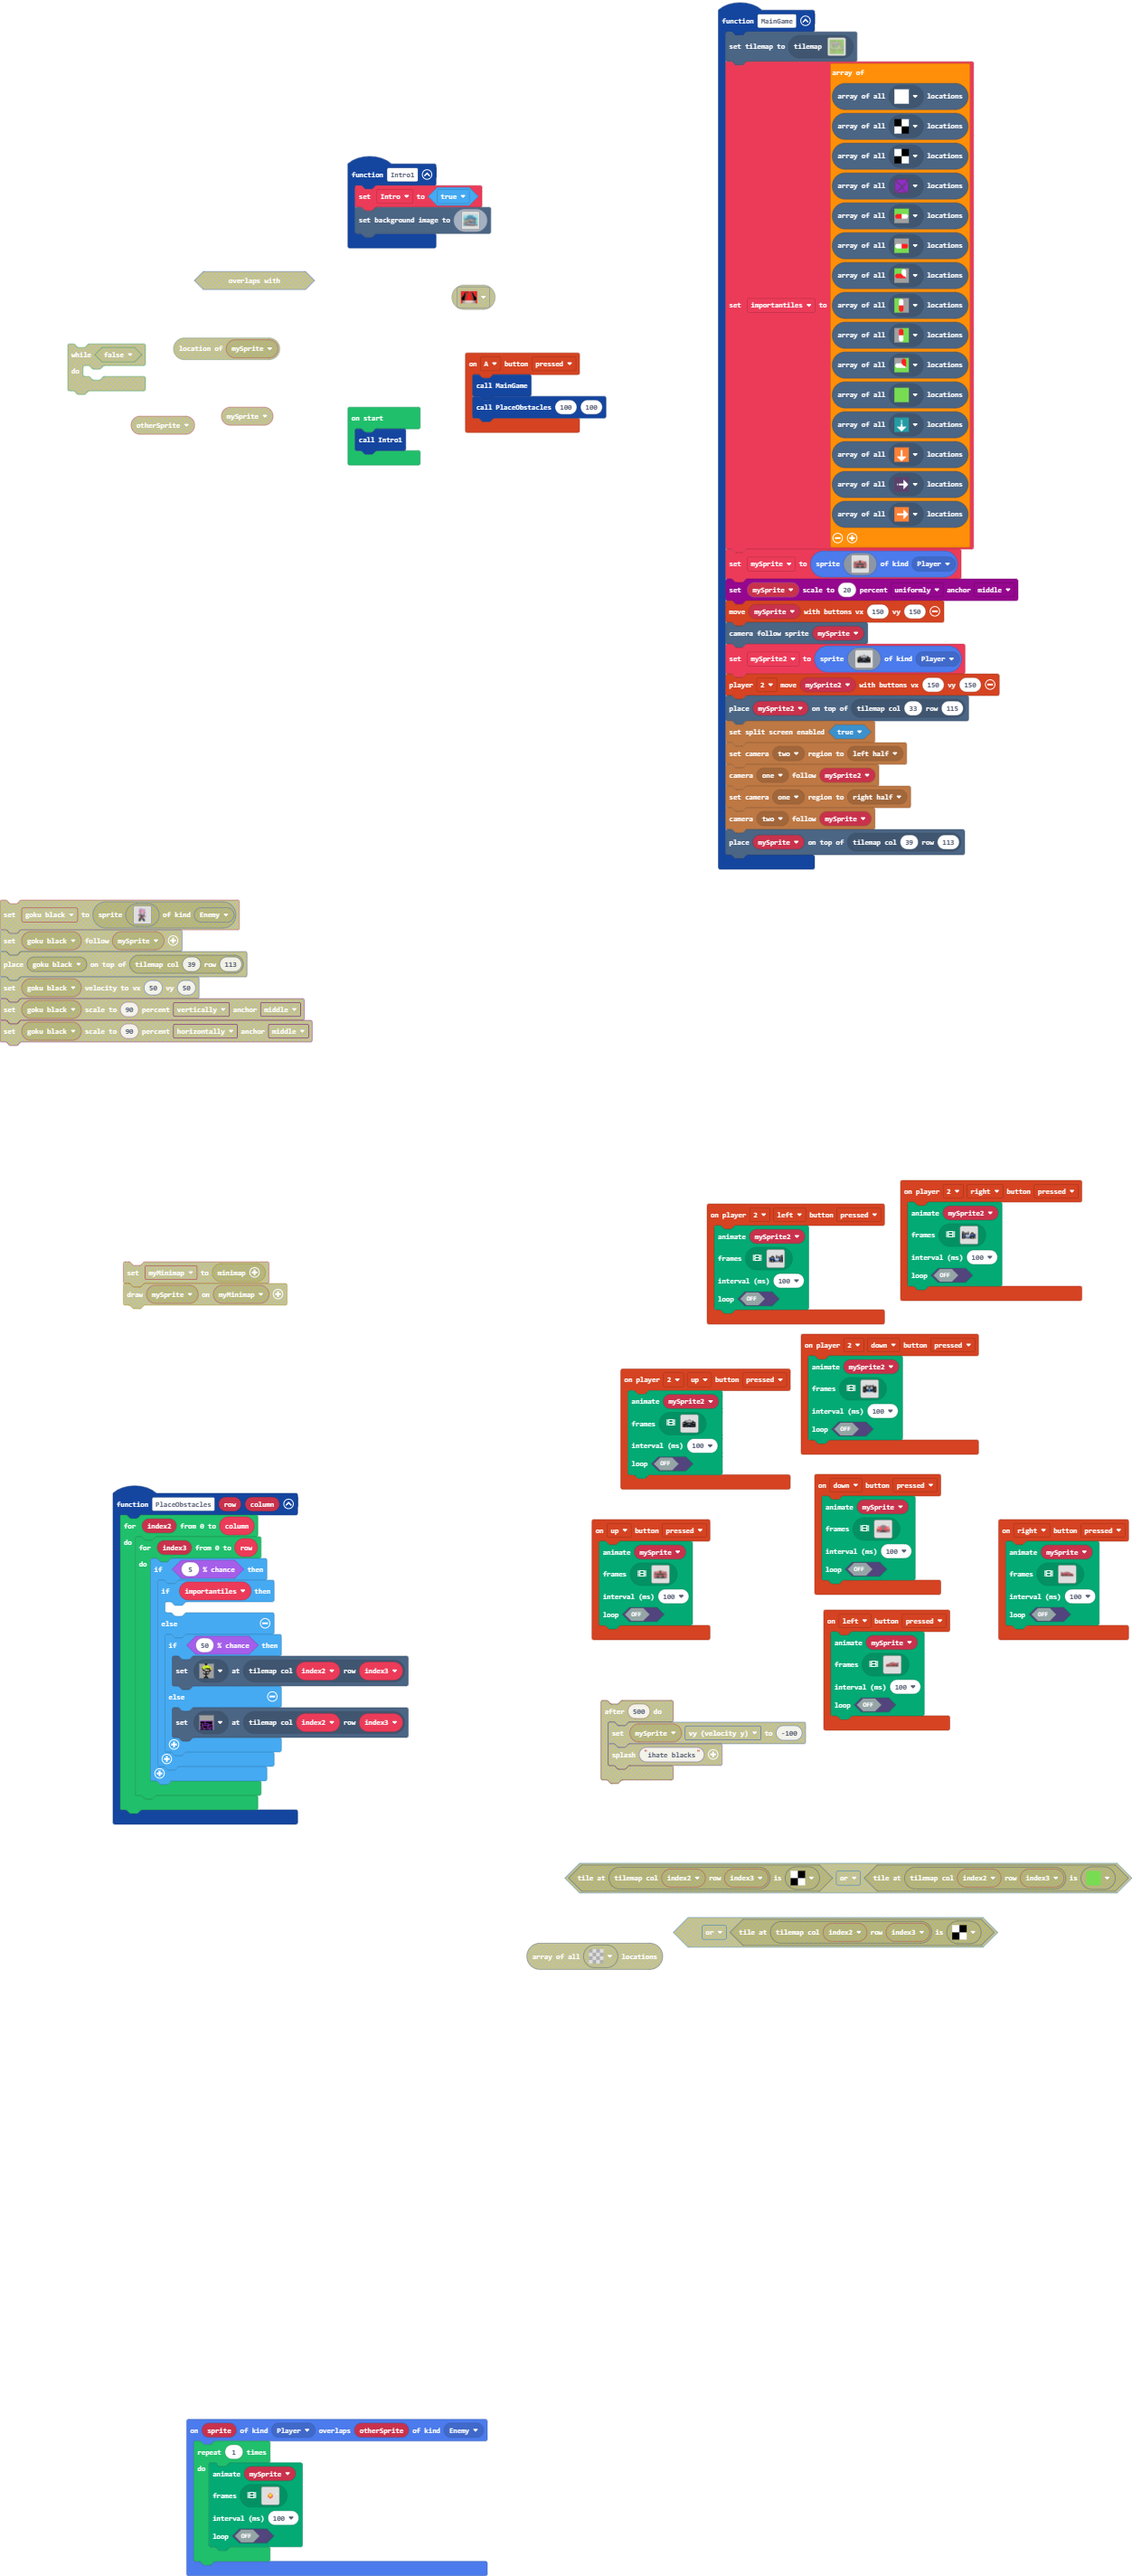
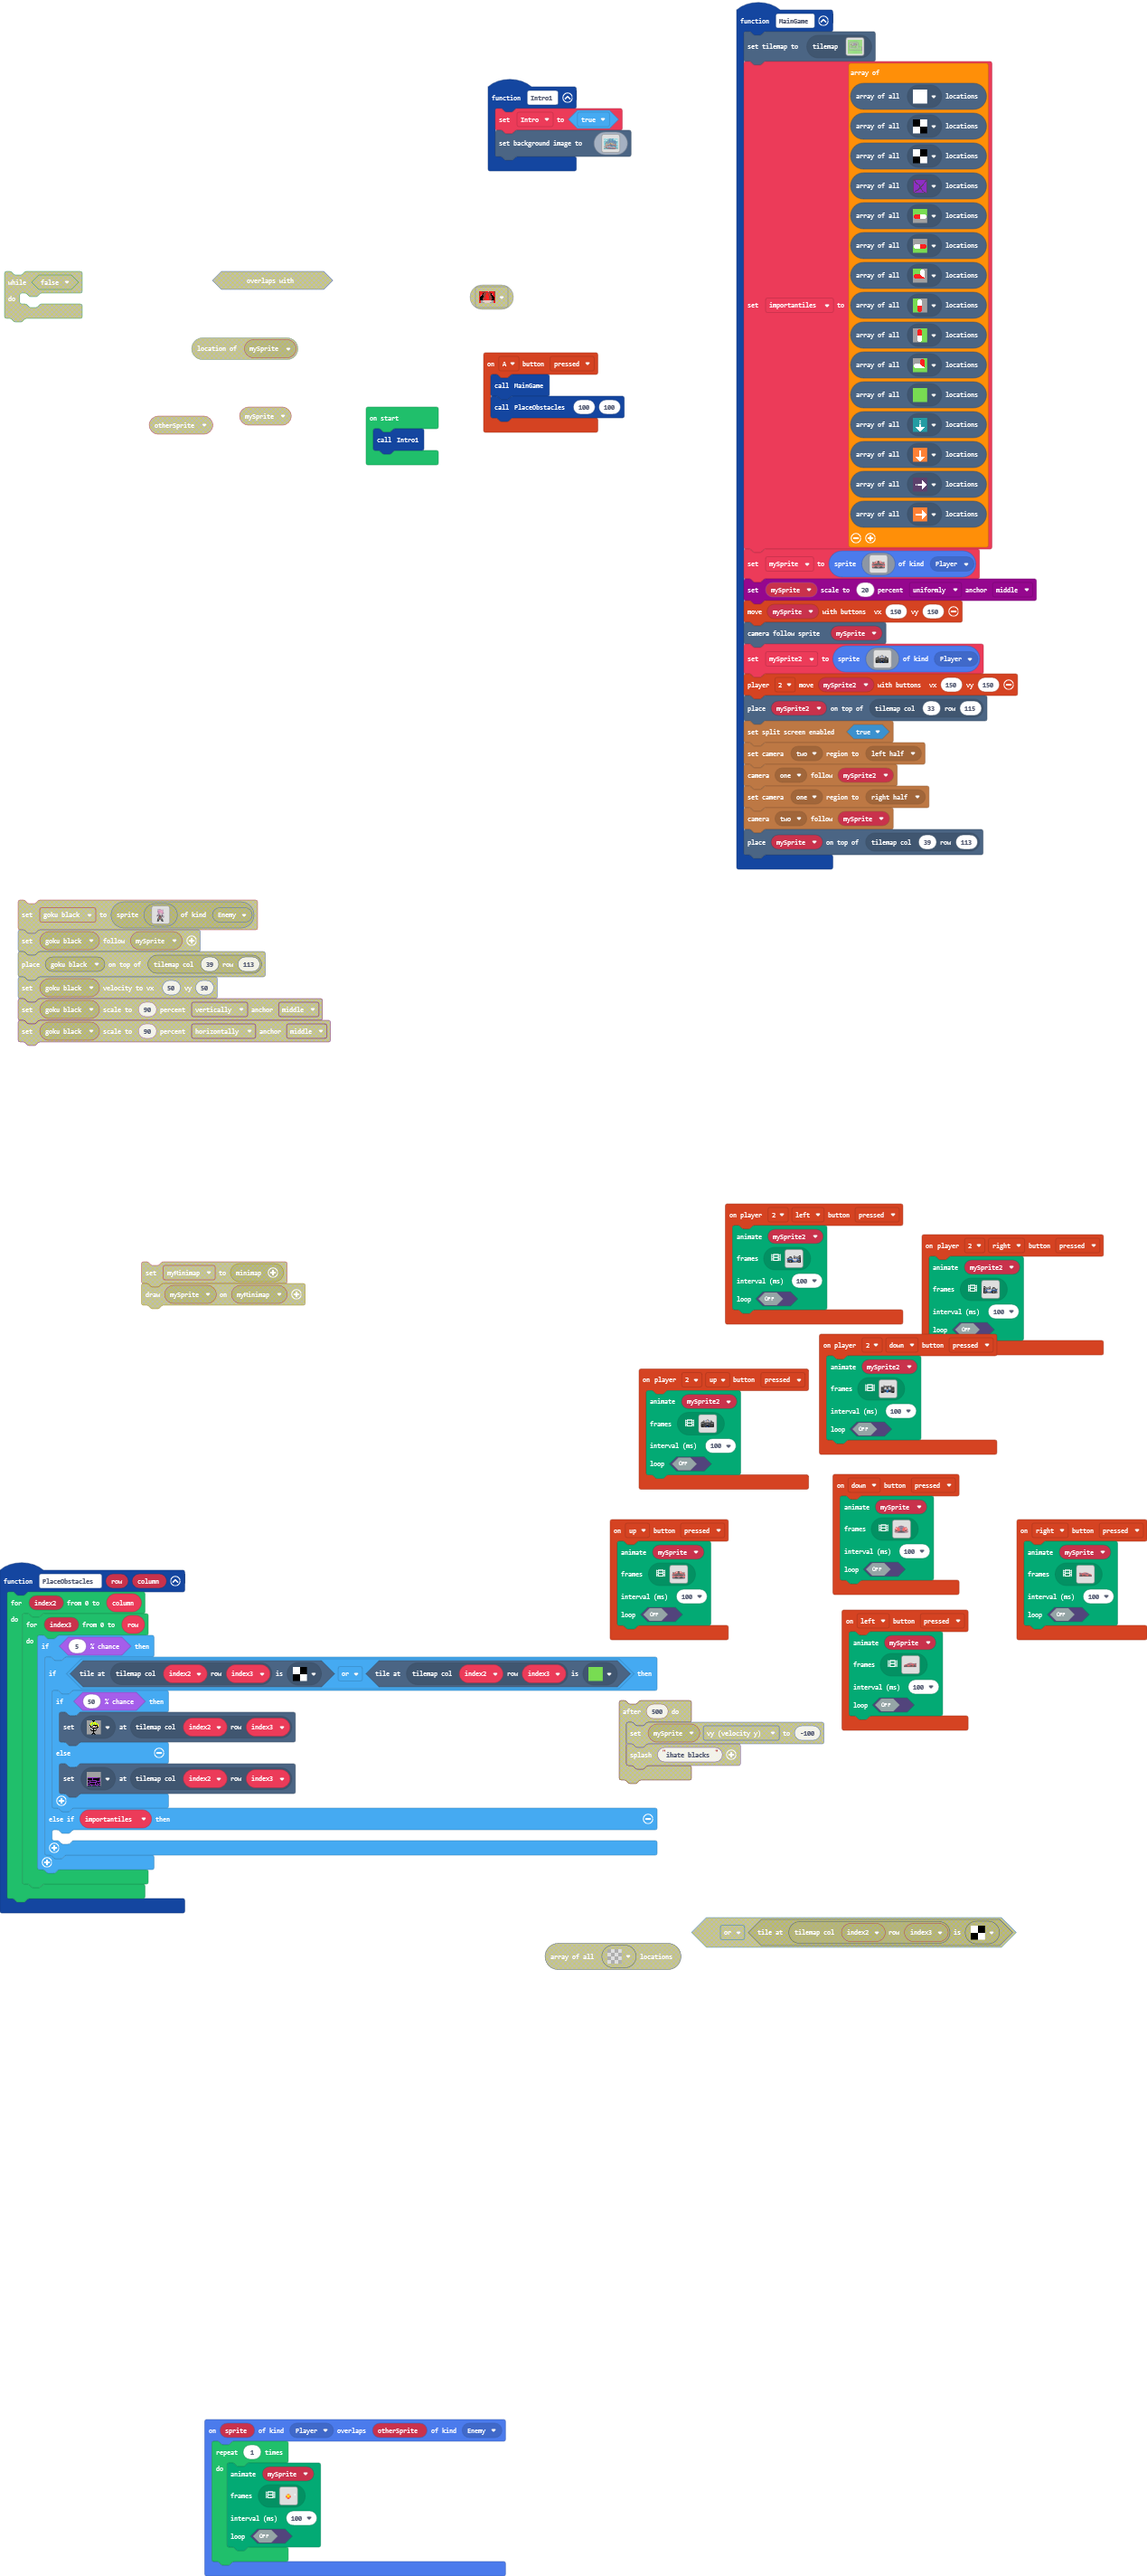
Update main.blocks, main.ts

diff --git a/main.ts b/main.ts
@@ -572,14 +572,14 @@ function PlaceObstacles (row: number, column: number) {
     for (let index2 = 0; index2 <= column; index2++) {
         for (let index3 = 0; index3 <= row; index3++) {
             if (Math.percentChance(5)) {
-                if (importantiles) {
-                	
-                } else {
+                if (tiles.tileAtLocationEquals(tiles.getTileLocation(index2, index3), assets.tile`FINISHLIEN0`) || tiles.tileAtLocationEquals(tiles.getTileLocation(index2, index3), assets.tile`myTile4`)) {
                     if (Math.percentChance(50)) {
                         tiles.setTileAt(tiles.getTileLocation(index2, index3), assets.tile`myTileperson`)
                     } else {
                         tiles.setTileAt(tiles.getTileLocation(index2, index3), assets.tile`obstacle-wall`)
                     }
+                } else if (importantiles) {
+                	
                 }
             }
         }
